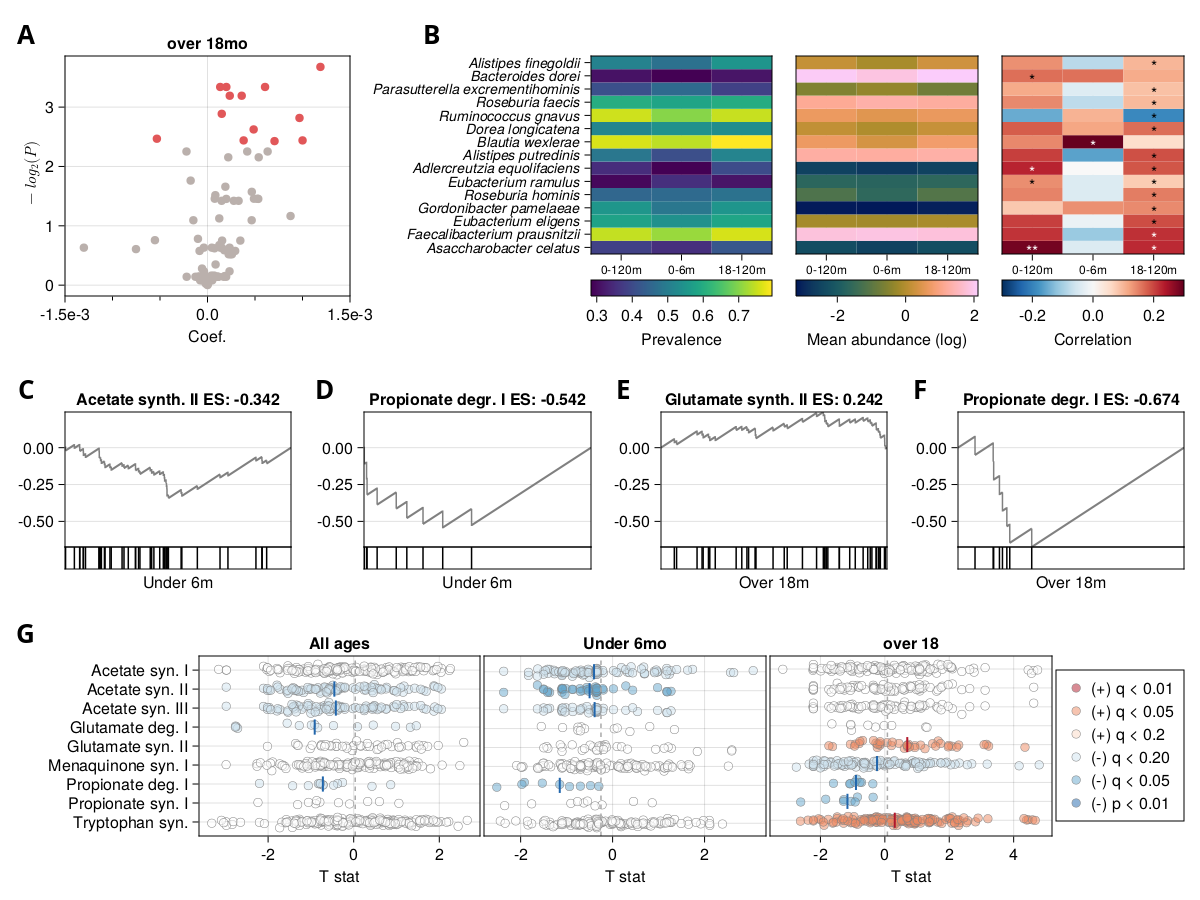
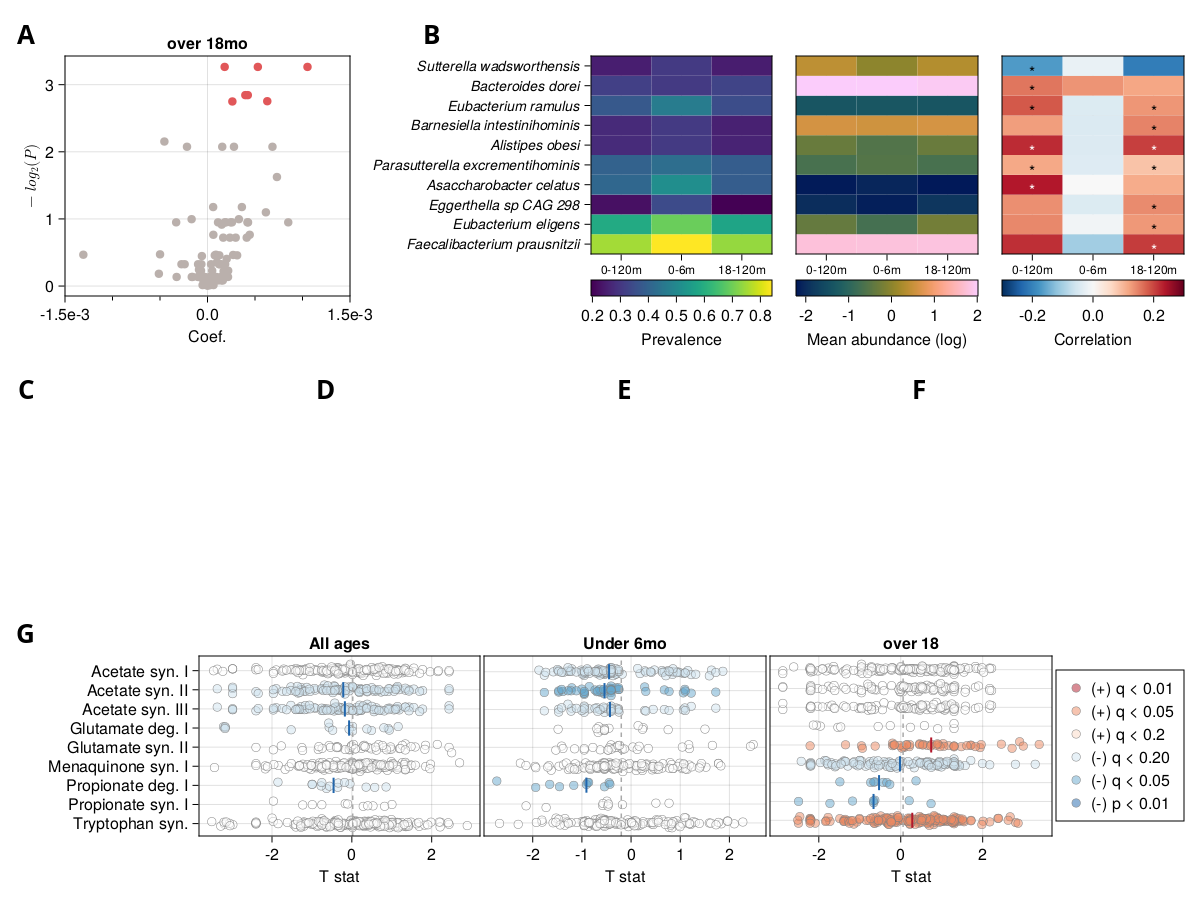
new fig 2

diff --git a/manuscript/Figure2.md b/manuscript/Figure2.md
@@ -21,7 +21,9 @@ using JLD2
 
 ```julia
 mdata = Resonance.load(Metadata())
-taxa = Resonance.load(TaxonomicProfiles(); timepoint_metadata = mdata)
+seqs = subset(mdata, "sample"=> ByRow(!ismissing)) 
+seqs.sample = [s for s in seqs.sample]
+taxa = Resonance.load(TaxonomicProfiles(); timepoint_metadata = seqs)
 taxdf = comm2wide(taxa)
 ```
 
@@ -45,9 +47,9 @@ fsdf2_18to120 = CSV.read(scratchfiles("figure2", "fsea_all_18to120.csv"), DataFr
 cors_00to120 = CSV.read(tablefiles("figure2", "lms_unirefs_00to120.csv"), DataFrame)
 cors_00to06 = CSV.read(tablefiles("figure2", "lms_unirefs_00to06.csv"), DataFrame)
 cors_18to120 = CSV.read(tablefiles("figure2", "lms_unirefs_18to120.csv"), DataFrame)
-neuroactive_00to120 = Resonance.getneuroactive(map(f-> replace(f, "UniRef90_"=>""), cors_00to120.species); consolidate=false)
-neuroactive_00to06 = Resonance.getneuroactive(map(f-> replace(f, "UniRef90_"=>""), cors_00to06.species); consolidate=false)
-neuroactive_18to120 = Resonance.getneuroactive(map(f-> replace(f, "UniRef90_"=>""), cors_18to120.species); consolidate=false)
+neuroactive_00to120 = Resonance.getneuroactive(map(f-> replace(f, "UniRef90_"=>""), cors_00to120.feature); consolidate=false)
+neuroactive_00to06 = Resonance.getneuroactive(map(f-> replace(f, "UniRef90_"=>""), cors_00to06.feature); consolidate=false)
+neuroactive_18to120 = Resonance.getneuroactive(map(f-> replace(f, "UniRef90_"=>""), cors_18to120.feature); consolidate=false)
 ```
 
 
@@ -68,16 +70,16 @@ lms_mat = let
         corr_00to06 = cor(taxdf[taxdf.filter_00to06, "cogScore"], taxdf[taxdf.filter_00to06, ft])
         corr_18to120 = cor(taxdf[taxdf.filter_18to120, "cogScore"], taxdf[taxdf.filter_18to120, ft])
         (; feature = ft, 
-           prev_00to120 = only(prevalence(taxa[Regex(ft), mdata.filter_00to120])),
-           meanab_00to120 = mean(filter(>(0), abundances(taxa[Regex(ft), mdata.filter_00to120]))),
+           prev_00to120 = only(prevalence(taxa[Regex(ft), seqs.filter_00to120])),
+           meanab_00to120 = mean(filter(>(0), abundances(taxa[Regex(ft), seqs.filter_00to120]))),
            corr_00to120,
            q_00to120,
-           prev_00to06 = only(prevalence(taxa[Regex(ft), mdata.filter_00to06])),
-           meanab_00to06 = mean(filter(>(0), abundances(taxa[Regex(ft), mdata.filter_00to06]))),
+           prev_00to06 = only(prevalence(taxa[Regex(ft), seqs.filter_00to06])),
+           meanab_00to06 = mean(filter(>(0), abundances(taxa[Regex(ft), seqs.filter_00to06]))),
            corr_00to06,
            q_00to06, 
-           prev_18to120 = only(prevalence(taxa[Regex(ft), mdata.filter_18to120])),
-           meanab_18to120 = mean(filter(>(0), abundances(taxa[Regex(ft), mdata.filter_18to120]))),
+           prev_18to120 = only(prevalence(taxa[Regex(ft), seqs.filter_18to120])),
+           meanab_18to120 = mean(filter(>(0), abundances(taxa[Regex(ft), seqs.filter_18to120]))),
            corr_18to120,
            q_18to120,
         )
